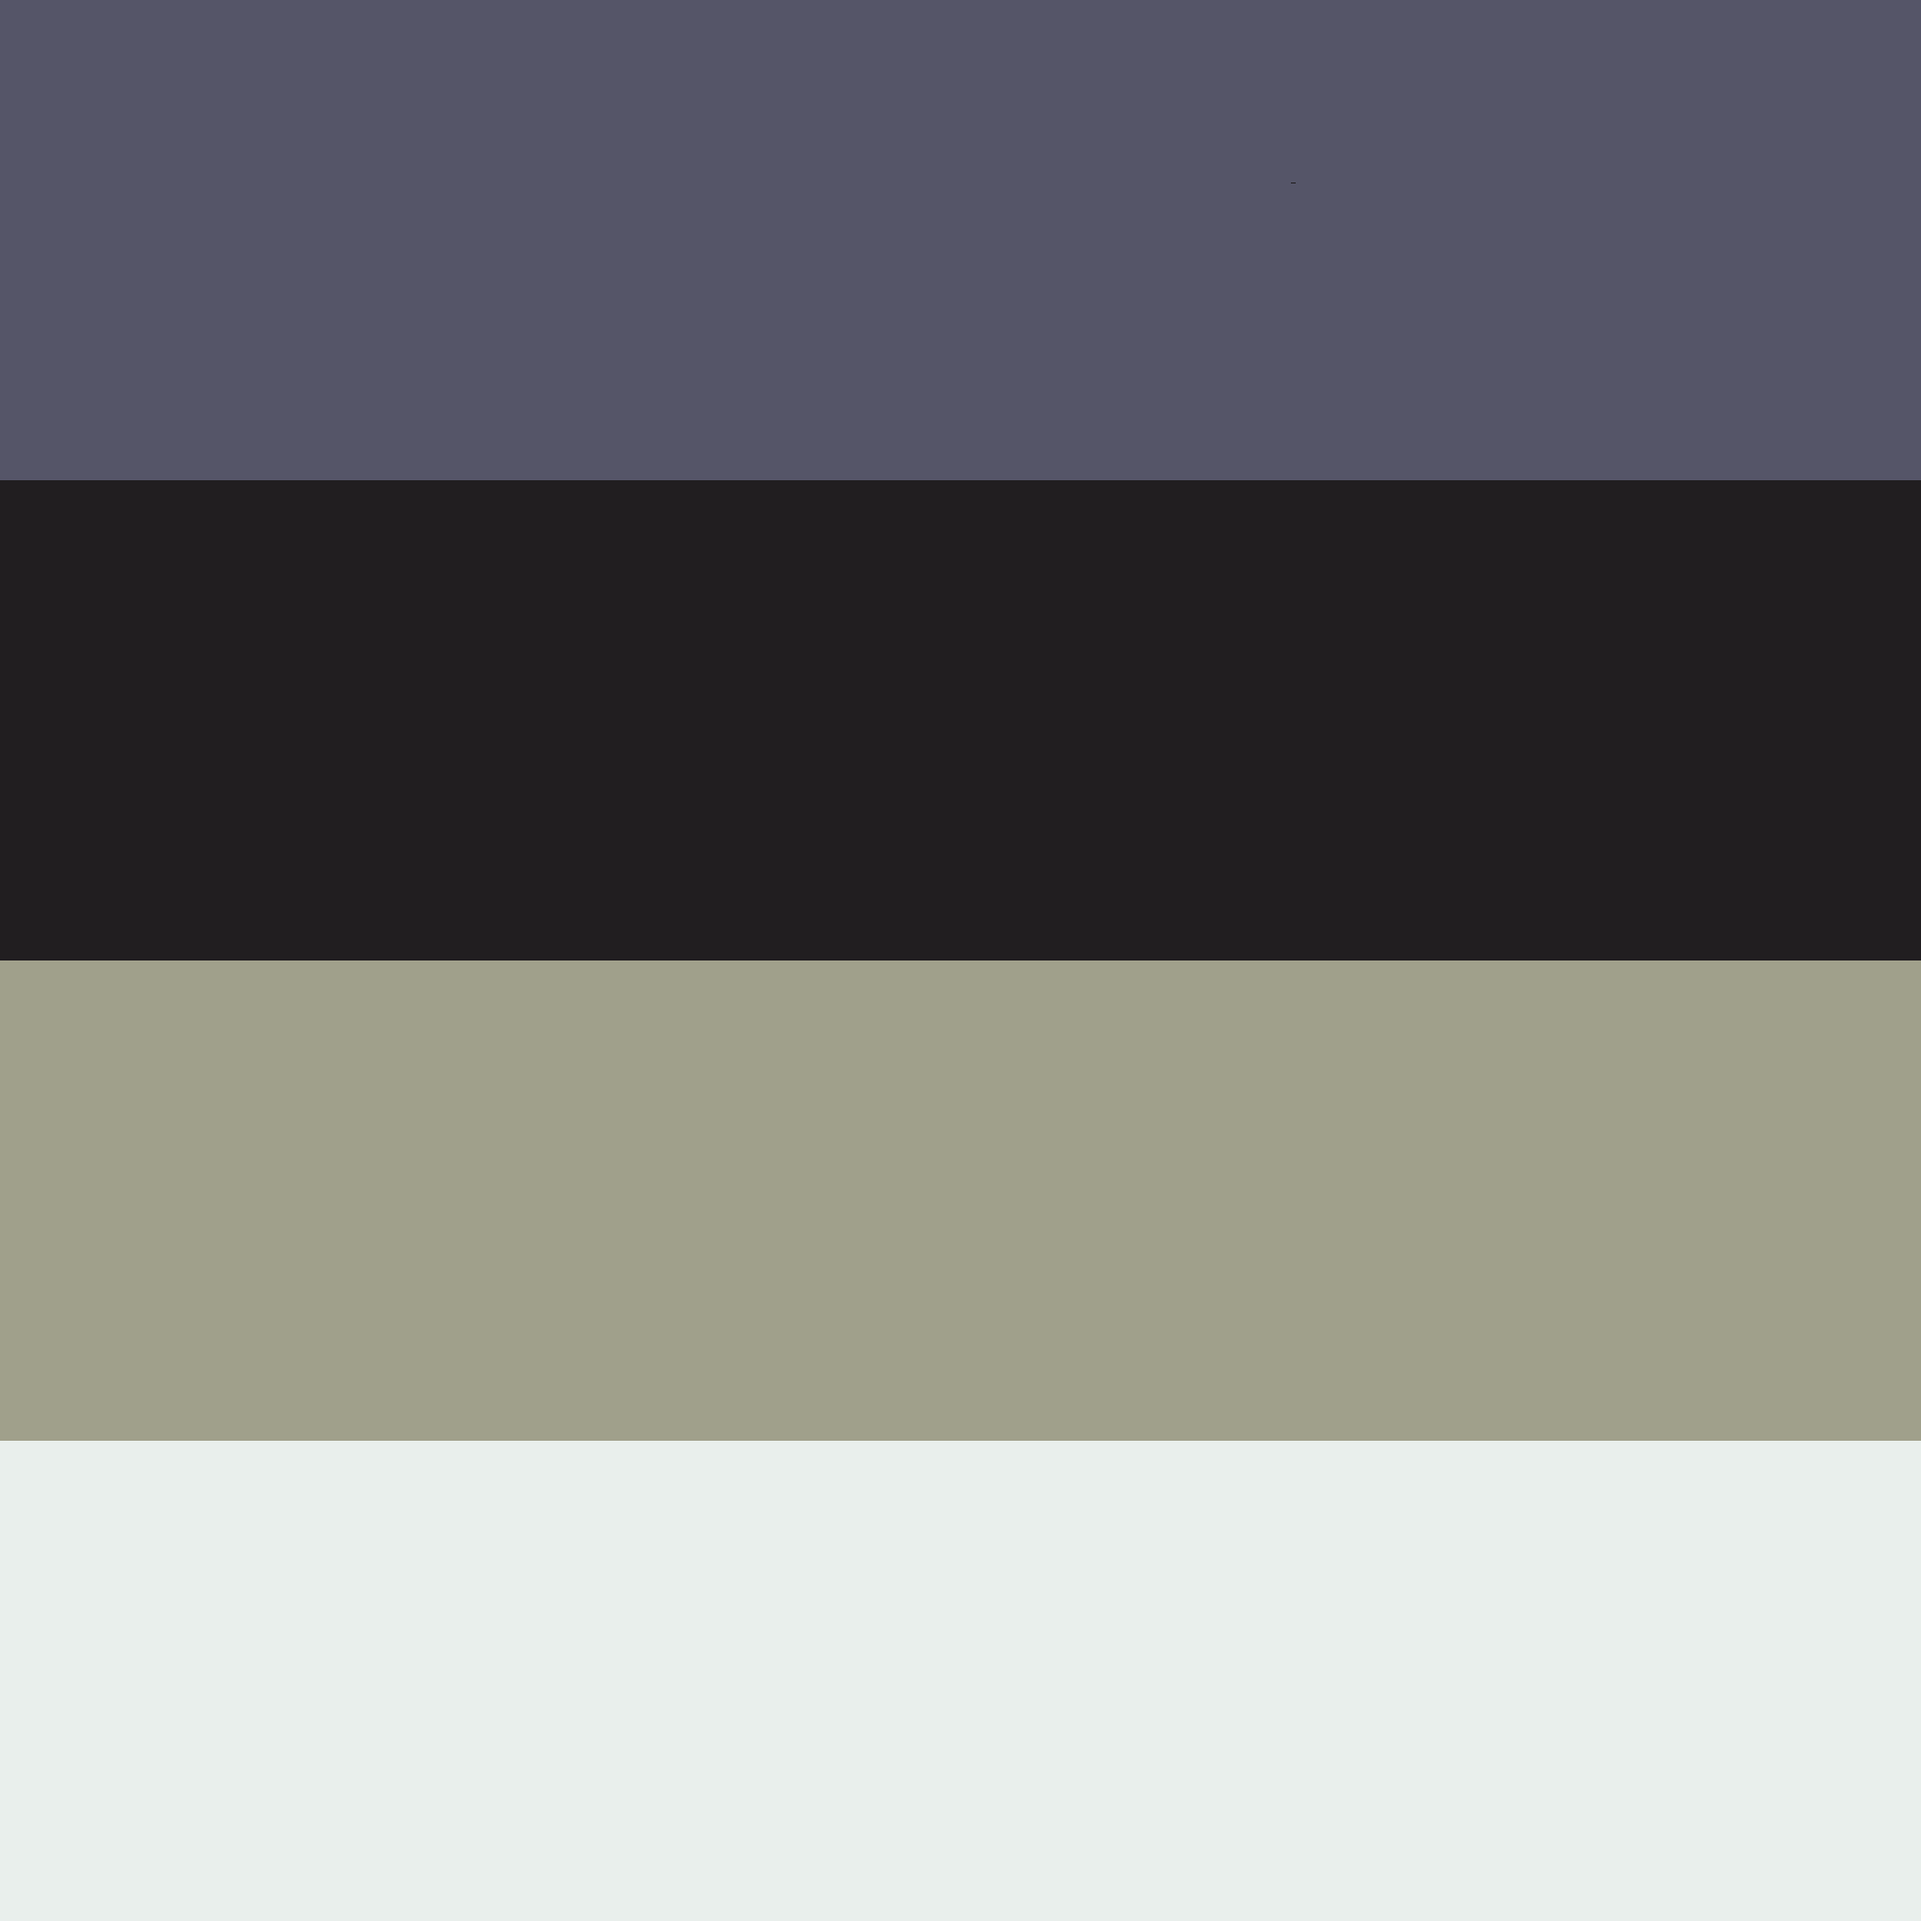
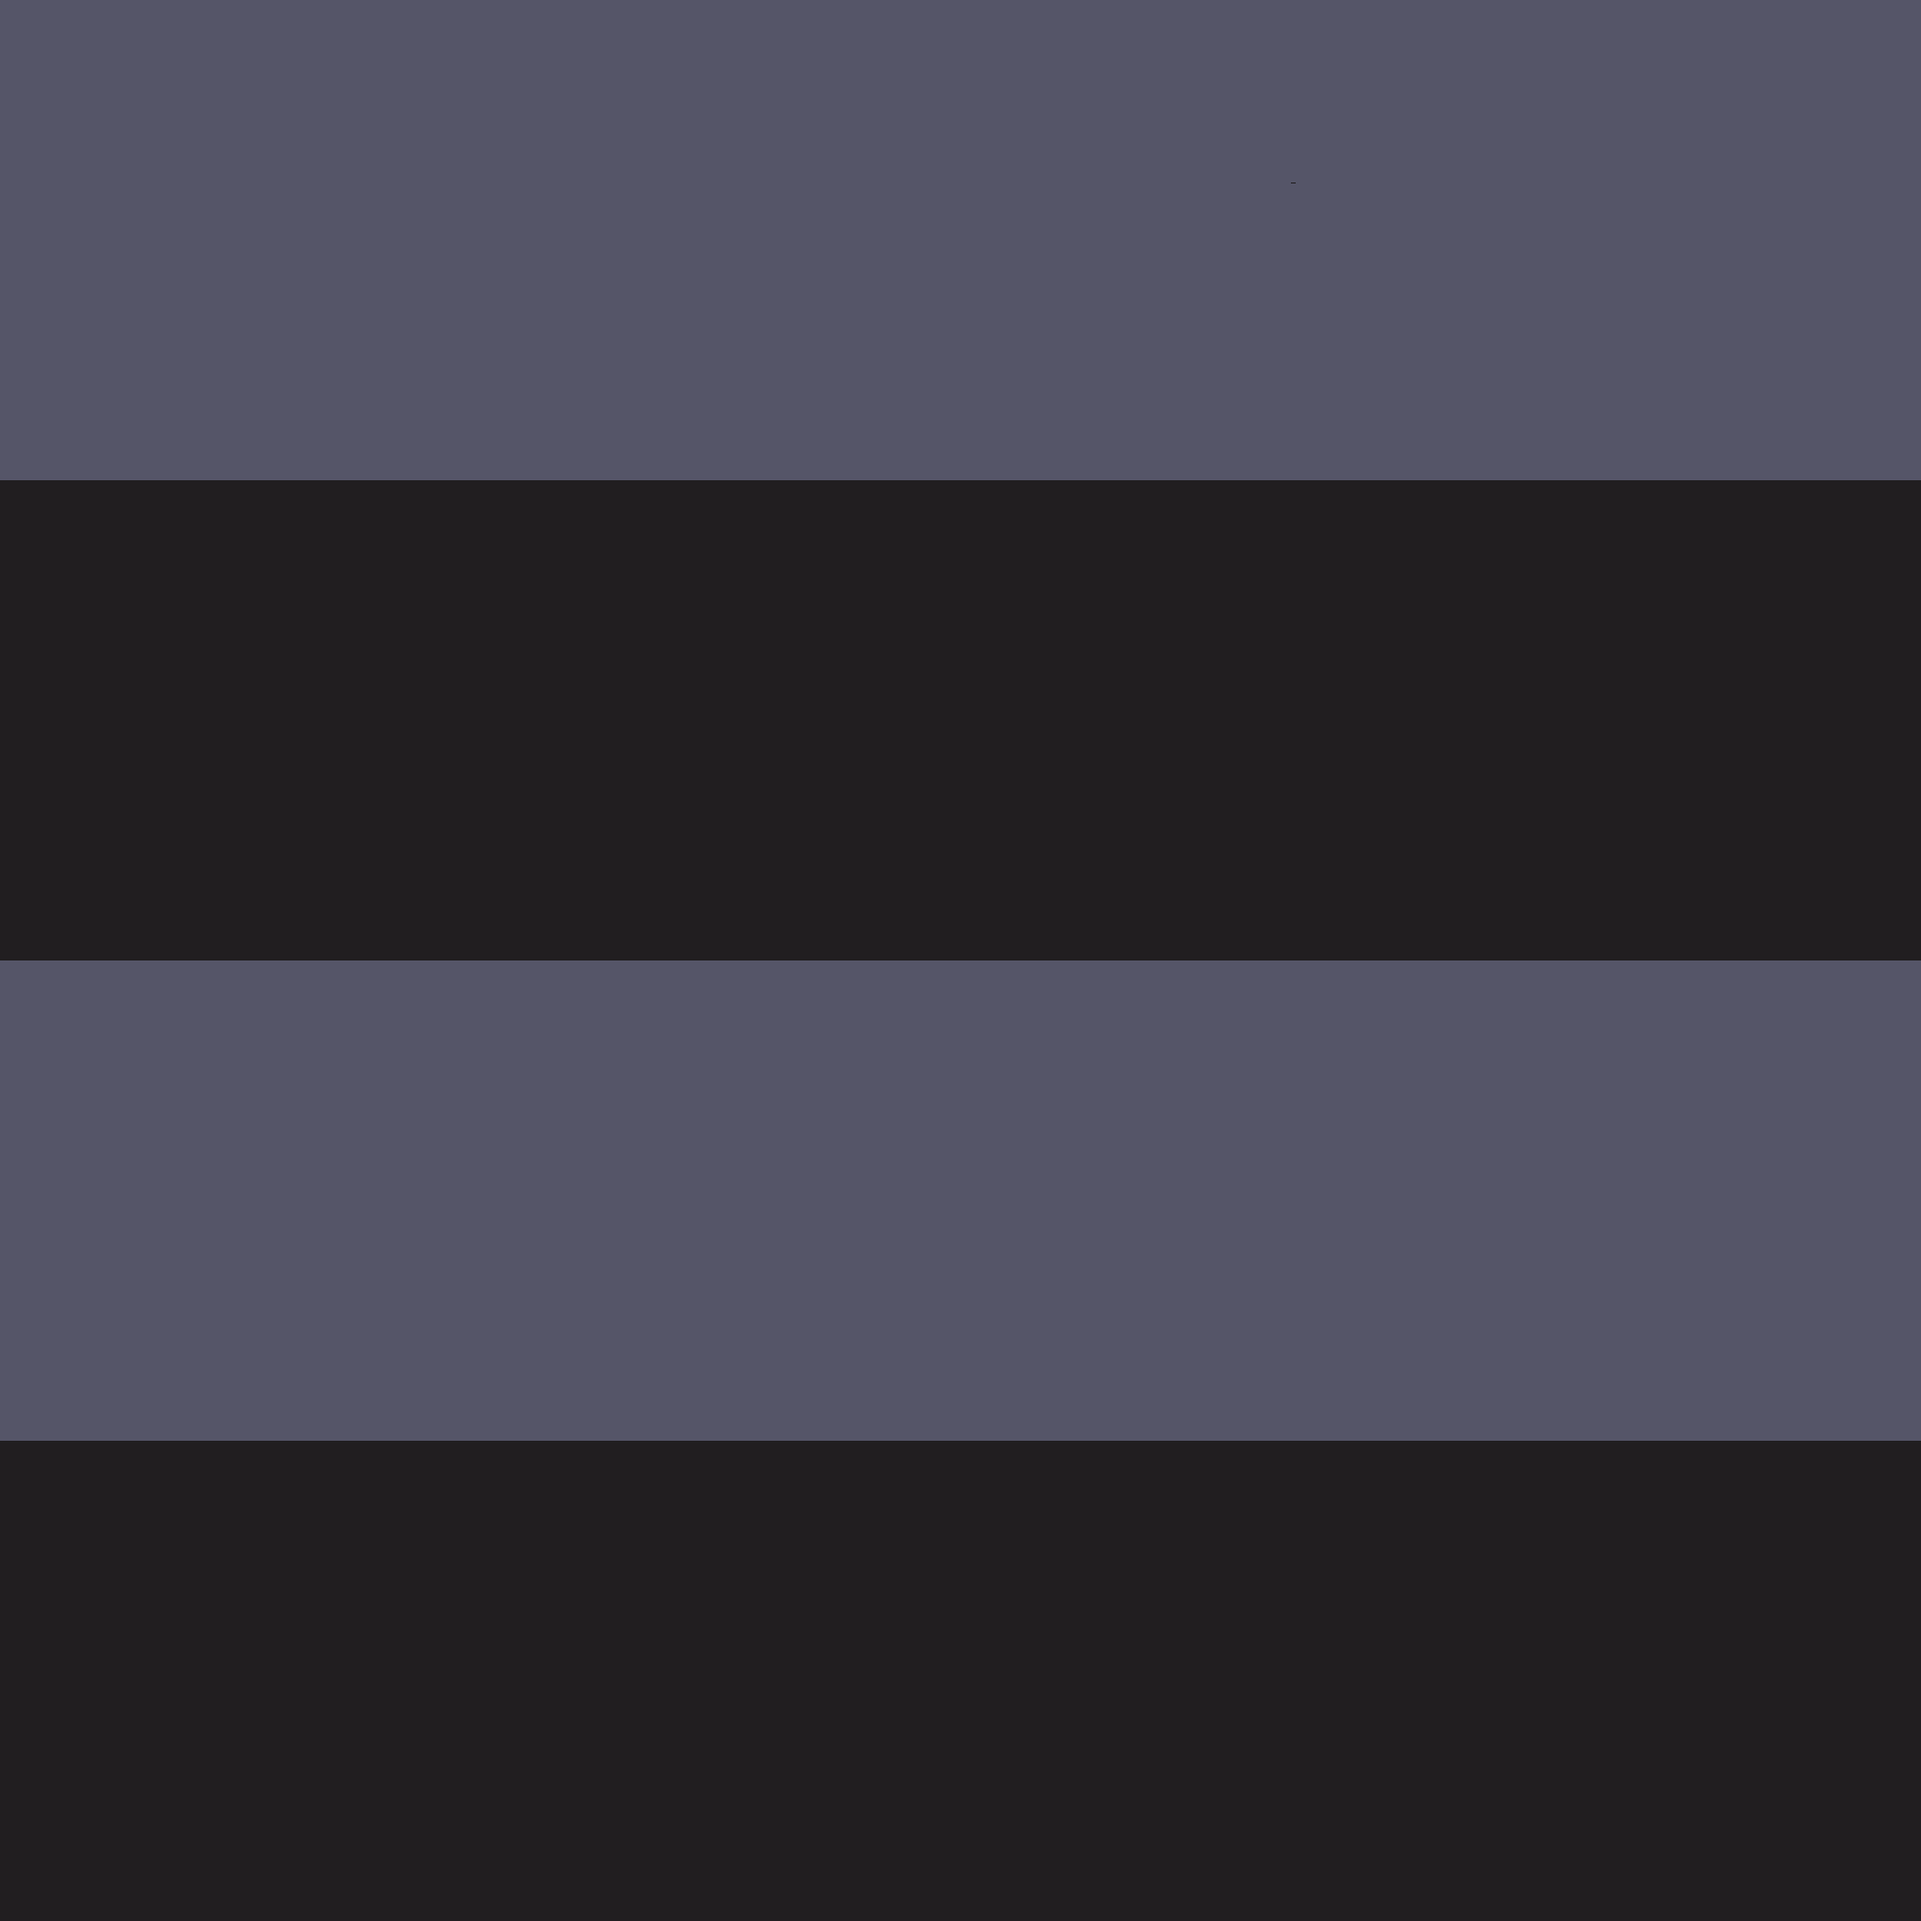
ChangedBG

diff --git a/index.html b/index.html
@@ -35,7 +35,7 @@
 			z-index: -1;
             background: url('static/background.png') repeat;
             background-size: 2000px 2000px;
-            animation: diagonalScroll 10s linear infinite;
+            animation: diagonalScroll 60s linear infinite;
         }
 
         @keyframes diagonalScroll {
